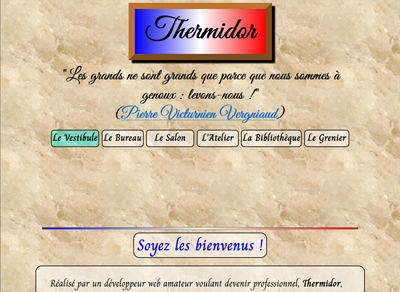
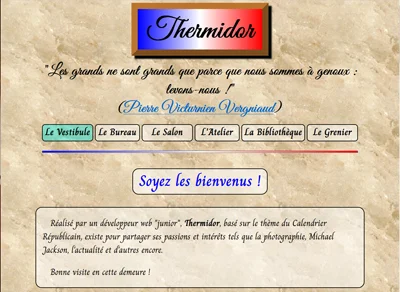
Mise à jour d'une réalisation

diff --git a/index.html b/index.html
@@ -386,11 +386,11 @@
                             <p><strong class="impWord">Thermidor</strong><br>Blog personnel</p>
                         </div>
                         <div class="texteProjet">
-                            <p><b class="impWord">Années :</b> 2018-2022</p>
+                            <p><b class="impWord">Années :</b> 2018-2023</p>
                             <p><b class="impWord">Description :</b> Sur le thème du Calendrier Républicain,
-                            site réalisé en autodidacte. Non mis à jour depuis plus d'un an, je prévois d'en
-                            faire une grande refonte pour l'améliorer.</p>
-                            <p><b class="impWord">Technologies :</b> HTML5, CSS3, JavaScript.</p>
+                            site réalisé en autodidacte. Une grande mise à jour pour améliorer en profondeur
+                            son fonctionnement et son adaptabilité a été réalisée très récemment.</p>
+                            <p><b class="impWord">Technologies :</b> HTML5, CSS3, Sass, JavaScript.</p>
                         </div>
                     </div>
                 </div>

diff --git a/Readme.md b/Readme.md
@@ -12,8 +12,8 @@ Finalement, sa dernière grande modification a été son adaptation pour en fair
 HTML5 - CSS3 - Sass - BootStrap - JavaScript - GitHub
 
 ## Dernière mise à jour
-Mercredi 19 avril 2023
-- Modifications mineures.
+Vendredi 2 juin 2023
+- Mise à jour d'une réalisation.
 
 ## Travaux effectués ou à faire
 - [x] 2020 : Création des premiers fichiers HTML, CSS et JS.
